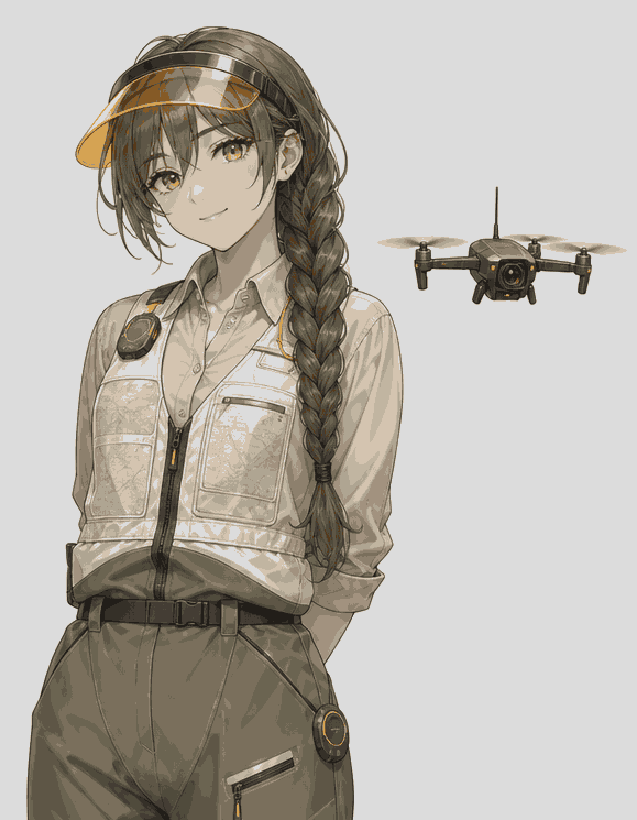
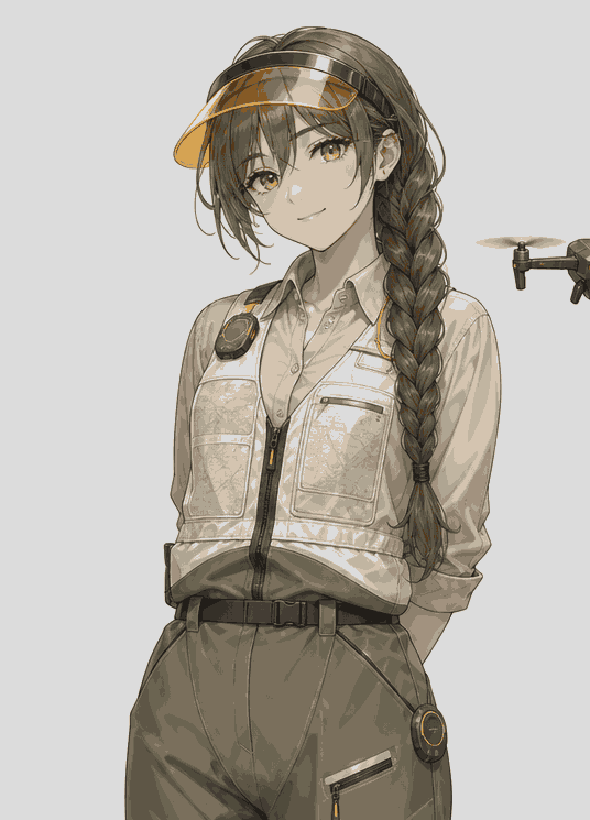
chimera: donor full art all at one aspect ratio (590x820), centered on the eyes

diff --git a/chimera/scripts/donor-art.py b/chimera/scripts/donor-art.py
@@ -17,6 +17,7 @@ PICK = {
 # 眼睛（Alan 2026-10-12：兩眼連線的中點在頭像正中間，兩眼外側佔頭像寬的二分之一到三分之二）：(兩眼中點 x, y, 兩眼外眼角的距離)，原圖座標，看圖量的
 EYES = {"portrait-05": [497, 199, 100], "portrait-06": [507, 165, 82], "portrait-07": [436, 224, 99], "portrait-12": [508, 185, 98], "portrait-15": [494, 200, 96], "portrait-16": [496, 222, 100], "portrait-08": [497, 145, 89], "portrait-09": [485, 144, 81], "portrait-10": [473, 191, 87], "ember": [521, 188, 95], "onyx": [483, 179, 90], "silver": [527, 191, 104], "cedar": [514, 191, 100], "portrait-11": [503, 188, 98], "portrait-13": [524, 176, 95], "portrait-14": [500, 214, 100]}
 EYE_SPAN = .58
+FULL_RATIO = .72   # 立繪 full.png 的寬高比（全部一樣）
 def figure_box(im):
   # 人物的範圍：跟左上角的背景色差得夠多的地方
   rgb = im.convert('RGB'); bg = Image.new('RGB', rgb.size, rgb.getpixel((2, 2)))
@@ -26,9 +27,11 @@ os.makedirs(OUT, exist_ok=True)
 for key, (src, hip, head, dy, dx) in PICK.items():
   im = Image.open(src).convert('RGB'); mask, (x0, y0, x1, y1) = figure_box(im); h = y1 - y0
   # full.png：頭頂到胯部，左右照人物寬度留一點邊，下緣就是胯部（貼底）
-  yb = y0 + int(h * hip); top = max(0, y0 - 24)
-  full = im.crop((max(0, x0 - 24), top, min(im.width, x1 + 24), yb))
-  s = 820 / full.height; full = full.resize((round(full.width * s), 820), Image.NEAREST)   # 減色圖：不要混出中間色
+  # 比例統一（Alan 2026-10-12：詳細資料裡的立繪比例不一）：寬 = 高 × FULL_RATIO，水平以兩眼中點置中；原圖不夠寬就用背景色補
+  yb = y0 + int(h * hip); top = max(0, y0 - 24); Hs = yb - top; Ws = round(Hs * FULL_RATIO)
+  cx = EYES[key][0] if key in EYES else (x0 + x1) // 2; lx = int(cx - Ws / 2)
+  full = Image.new('RGB', (Ws, Hs), im.getpixel((2, 2))); full.paste(im.crop((max(0, lx), top, min(im.width, lx + Ws), yb)), (max(0, -lx), 0))
+  full = full.resize((round(820 * FULL_RATIO), 820), Image.NEAREST)   # 減色圖：不要混出中間色
   d = os.path.join(OUT, key); os.makedirs(d, exist_ok=True); full.quantize(colors=16, method=Image.MEDIANCUT).save(os.path.join(d, 'full.png'), optimize=True)
   # portrait.png：頭的正方形，中心照頭那一段人物像素的平均位置
   hh = int(h * head); band = mask.crop((0, y0, im.width, y0 + hh)); px = band.load()
